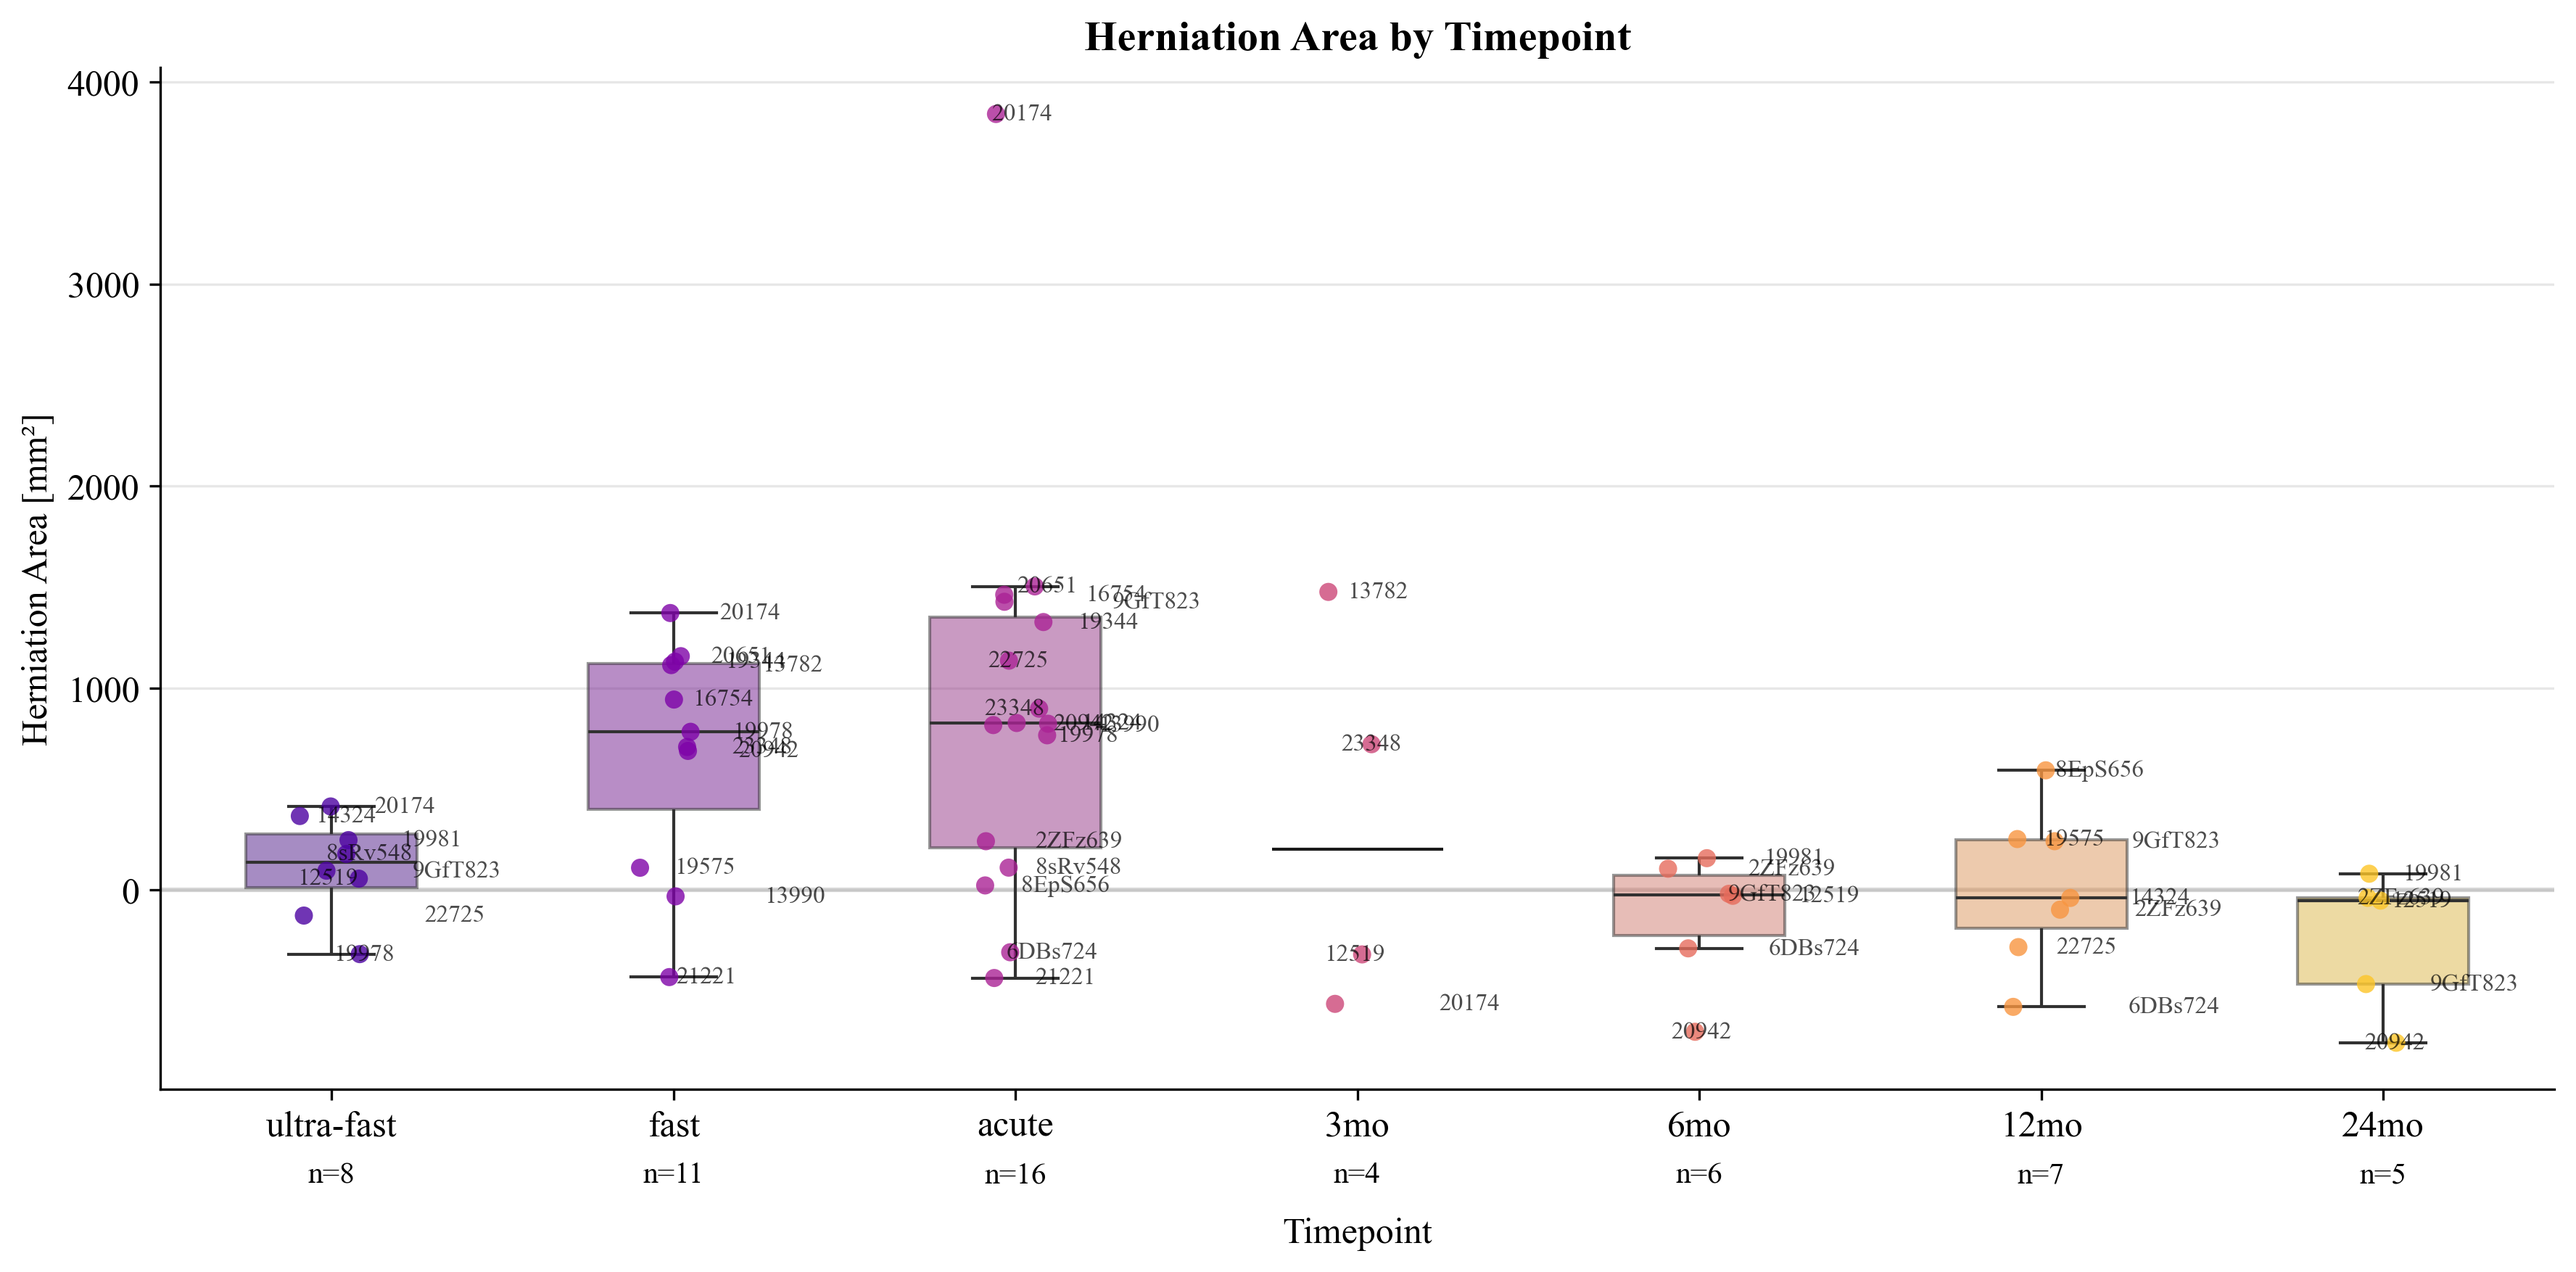
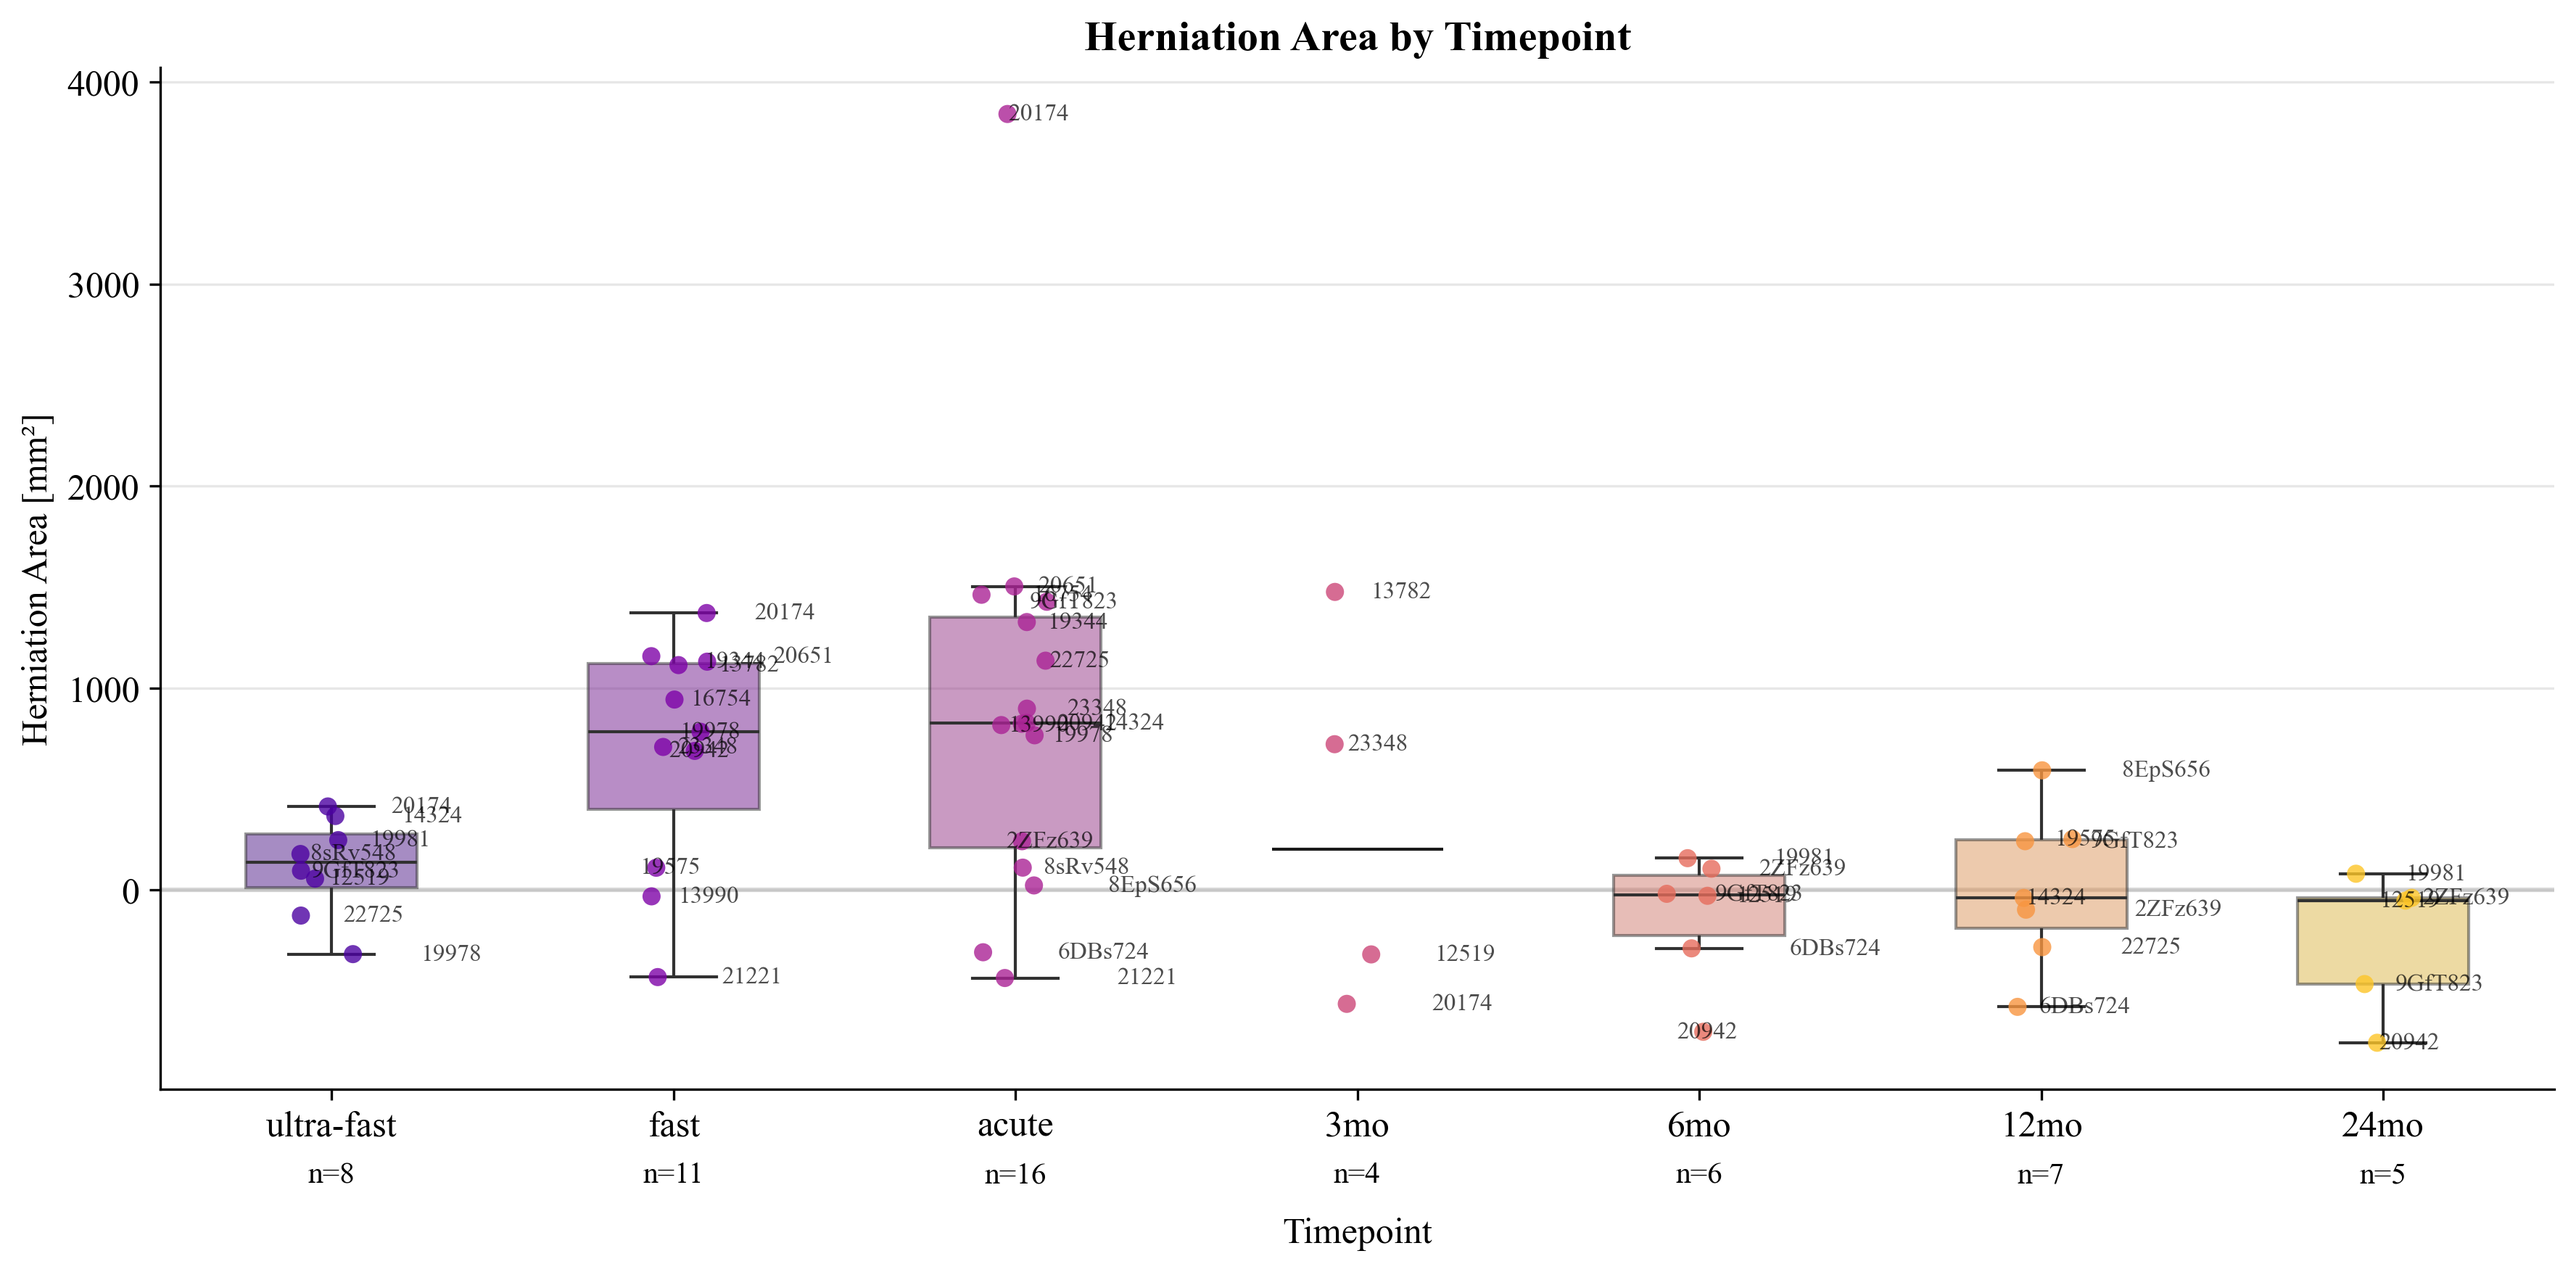
remove labels from box plot

diff --git a/Image_Processing_Scripts/stats_main.py b/Image_Processing_Scripts/stats_main.py
@@ -464,20 +464,20 @@ def create_timepoint_boxplot(df, timepoints=['ultra-fast', 'fast', 'acute', '3mo
                  palette=palette, jitter=True, size=6, alpha=0.8, ax=ax)
     
 
-    # Add patient ID labels to scatter points
-    for i, tp in enumerate(timepoints):
-        tp_data = df_filtered[df_filtered['timepoint'] == tp]
-        # Calculate approximate positions of points (similar to stripplot jitter)
-        n_points = len(tp_data)
-        if n_points > 0:
-            # Get x-y coordinates of the plotted points
-            # This is an approximation of stripplot's jitter
-            jitter_amount = 0.2
-            x_positions = np.random.uniform(i-jitter_amount, i+jitter_amount, size=n_points)
-            for j, (_, row) in enumerate(tp_data.iterrows()):
-                ax.text(x_positions[j] + 0.1, row['area_diff'], 
-                    str(row['patient_id']), 
-                    fontsize=8, alpha=0.7, ha='left', va='center')  
+    # # Add patient ID labels to scatter points
+    # for i, tp in enumerate(timepoints):
+    #     tp_data = df_filtered[df_filtered['timepoint'] == tp]
+    #     # Calculate approximate positions of points (similar to stripplot jitter)
+    #     n_points = len(tp_data)
+    #     if n_points > 0:
+    #         # Get x-y coordinates of the plotted points
+    #         # This is an approximation of stripplot's jitter
+    #         jitter_amount = 0.2
+    #         x_positions = np.random.uniform(i-jitter_amount, i+jitter_amount, size=n_points)
+    #         for j, (_, row) in enumerate(tp_data.iterrows()):
+    #             ax.text(x_positions[j] + 0.1, row['area_diff'], 
+    #                 str(row['patient_id']), 
+    #                 fontsize=8, alpha=0.7, ha='left', va='center')  
         
     # Set labels and title
     ax.set_xlabel('Timepoint', fontsize=12)
